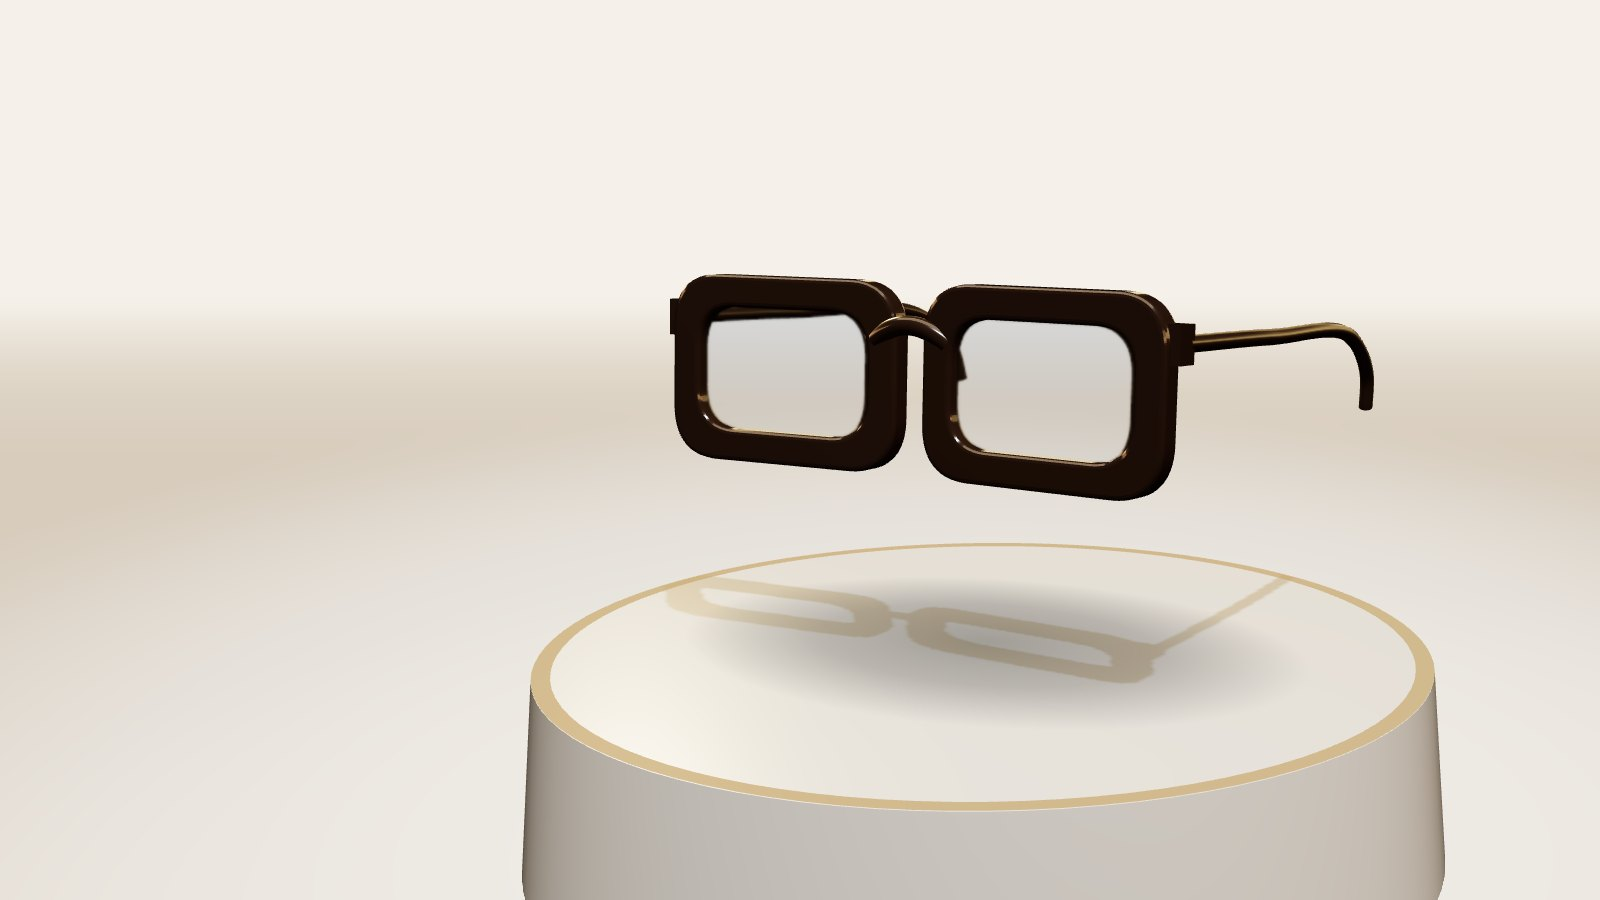
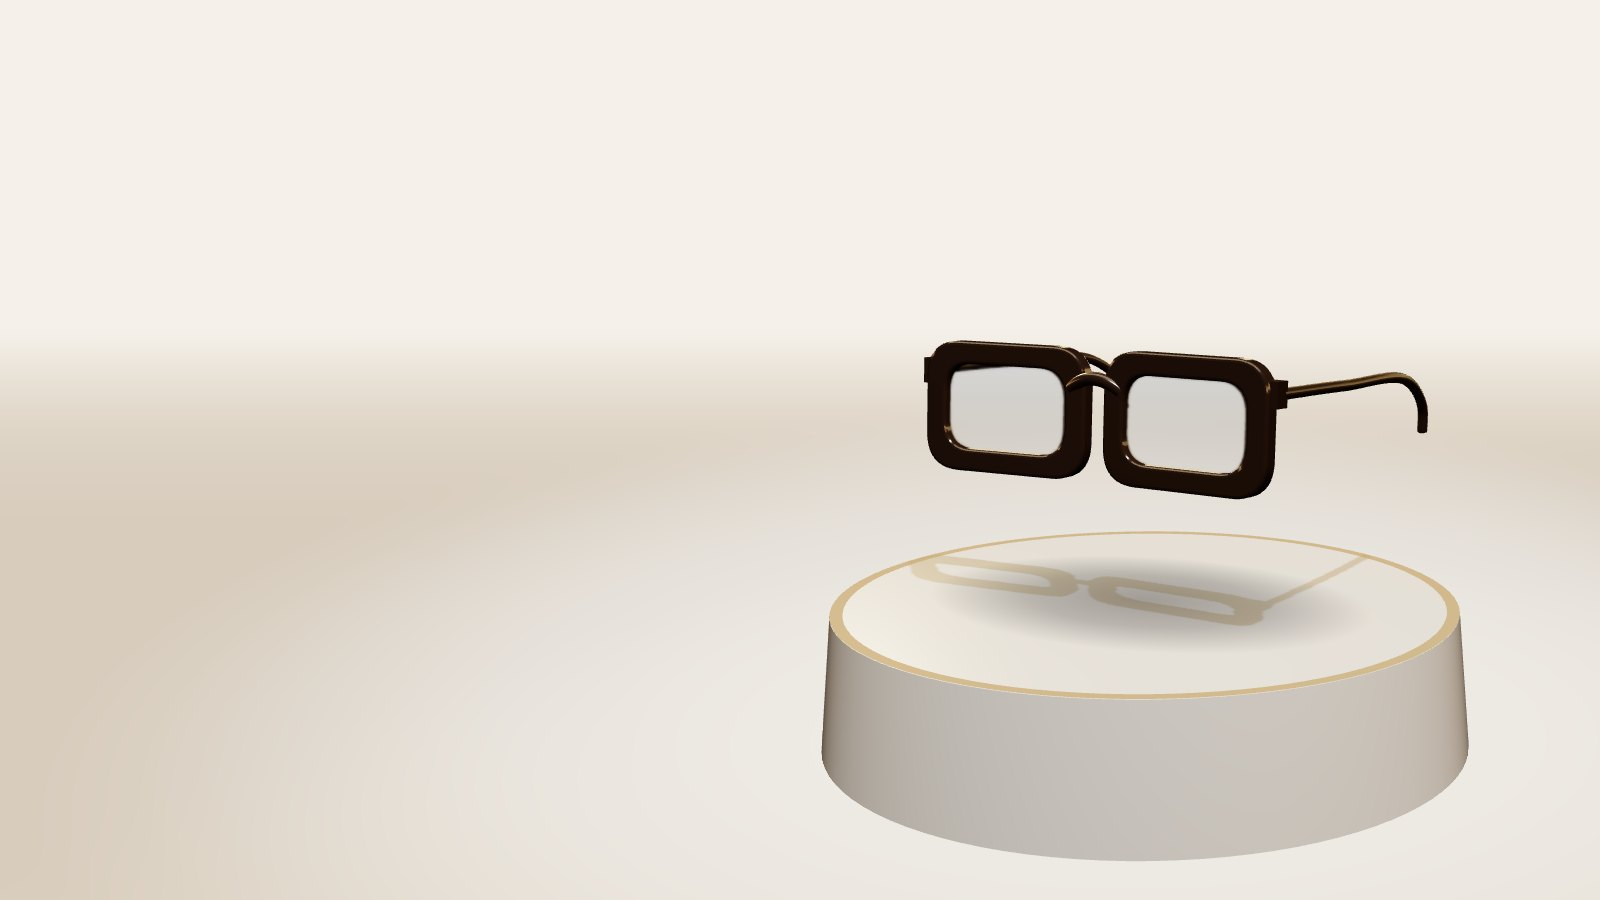
Reenquadra a vitrine de óculos para não sobrepor o título
Claude-Session: https://claude.ai/code/session_011za9GzwJDsmZBdkonqS8vv

Changed region(s): [[0.3125, 0.5911, 0.9375, 1.0], [0.4062, 0.28, 0.9062, 0.56], [0.0, 0.7467, 0.1562, 1.0]]

diff --git a/src/features/scenes3d/demo-shots.ts b/src/features/scenes3d/demo-shots.ts
@@ -42,7 +42,7 @@ const frames: Array<[string, string, string]> = [
   ["round-navy", "round", "#1d3b4f"],
 ];
 DEMO_SHOTS.push(
-  { id: "optics-hero", file: "assets/demo/optics/hero-poster.jpg", width: 1600, height: 900, background: OPTICS_BG, scene: eyewear("square", "#3b2a20"), camera: { azimuth: 62, elevation: 10, radius: 4.6, target: [0, -0.15, -0.3], fov: 30, shift: -5 } },
+  { id: "optics-hero", file: "assets/demo/optics/hero-poster.jpg", width: 1600, height: 900, background: OPTICS_BG, scene: eyewear("square", "#3b2a20"), camera: { azimuth: 62, elevation: 10, radius: 6.4, target: [0, -0.1, -0.3], fov: 30, shift: -8 } },
   ...frames.map(([name, variant, color]) => ({ id: `optics-${name}`, file: `assets/demo/optics/frame-${name}.jpg`, width: 900, height: 1125, background: "#efe9df", scene: eyewear(variant, color), camera: FRAME_CAM })),
   { id: "optics-detail-front", file: "assets/demo/optics/detail-front.jpg", width: 1200, height: 900, background: OPTICS_BG, scene: eyewear("cat", "#6d1a2c"), camera: { azimuth: 90, elevation: 4, radius: 2.7, target: [0, 0.1, 0.35], fov: 28 } },
   { id: "optics-detail-lens", file: "assets/demo/optics/detail-lens.jpg", width: 1200, height: 900, background: OPTICS_BG, scene: eyewear("round", "#6b3f22"), camera: { azimuth: 70, elevation: 14, radius: 1.8, target: [0.36, 0.1, 0.35], fov: 28 } },

diff --git a/src/features/scenes3d/scenes/eyewear/eyewear-scene.tsx b/src/features/scenes3d/scenes/eyewear/eyewear-scene.tsx
@@ -9,8 +9,8 @@ import { createBridgeGeometry, createBrowBarGeometry, createLensGeometry, create
 
 /** Momentos: três-quartos → frontal → detalhe da dobradiça → traseira. A frente da armação aponta para +Z. */
 const CAMERA_KEYS: CameraKey[] = [
-  { azimuth: 62, elevation: 10, radius: 4.6, target: [0, -0.15, -0.3], fov: 30, shift: -5 },
-  { azimuth: 90, elevation: 3, radius: 3.1, target: [0, 0, 0], fov: 28, shift: -4 },
+  { azimuth: 62, elevation: 10, radius: 6.4, target: [0, -0.1, -0.3], fov: 30, shift: -8 },
+  { azimuth: 90, elevation: 3, radius: 4.4, target: [0, 0, 0], fov: 28, shift: -6 },
   { azimuth: 28, elevation: 8, radius: 2.3, target: [0.62, 0.08, -0.25], fov: 28, shift: -3 },
   { azimuth: 150, elevation: 20, radius: 4.2, target: [0, -0.1, -0.5], fov: 30, shift: -4 },
 ];
